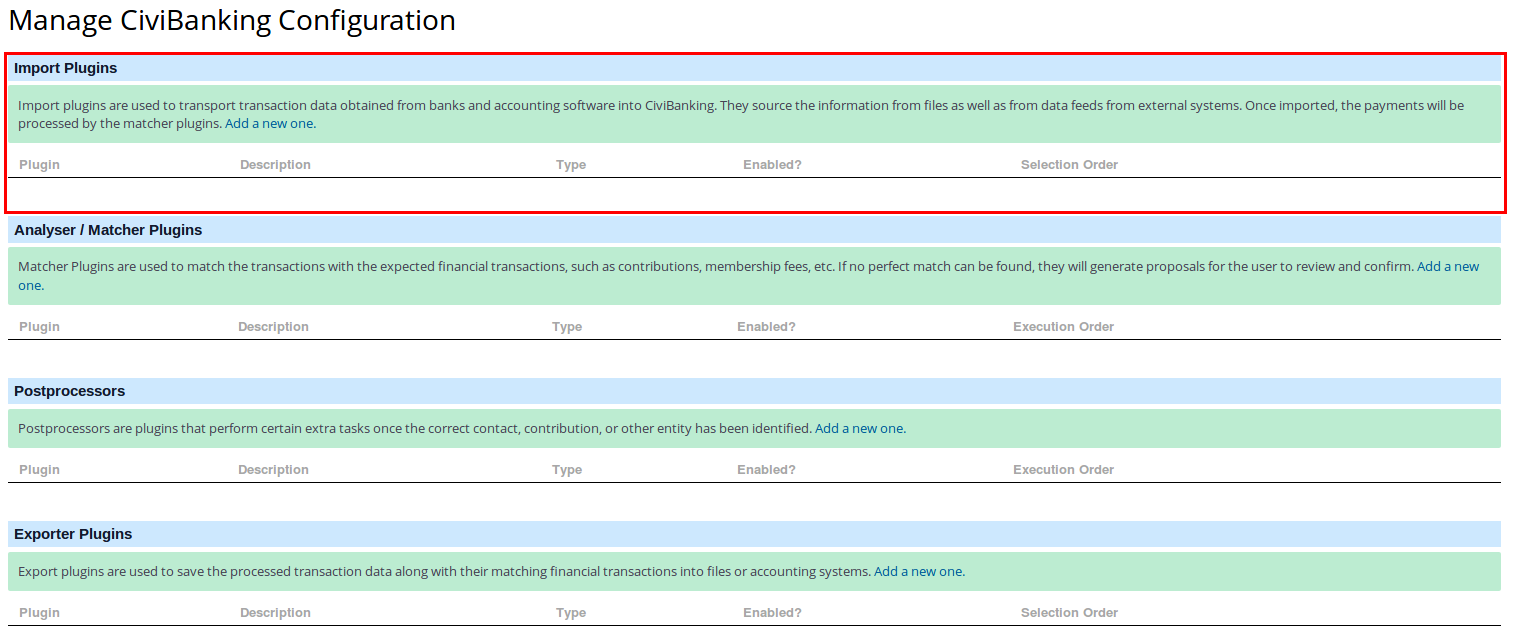
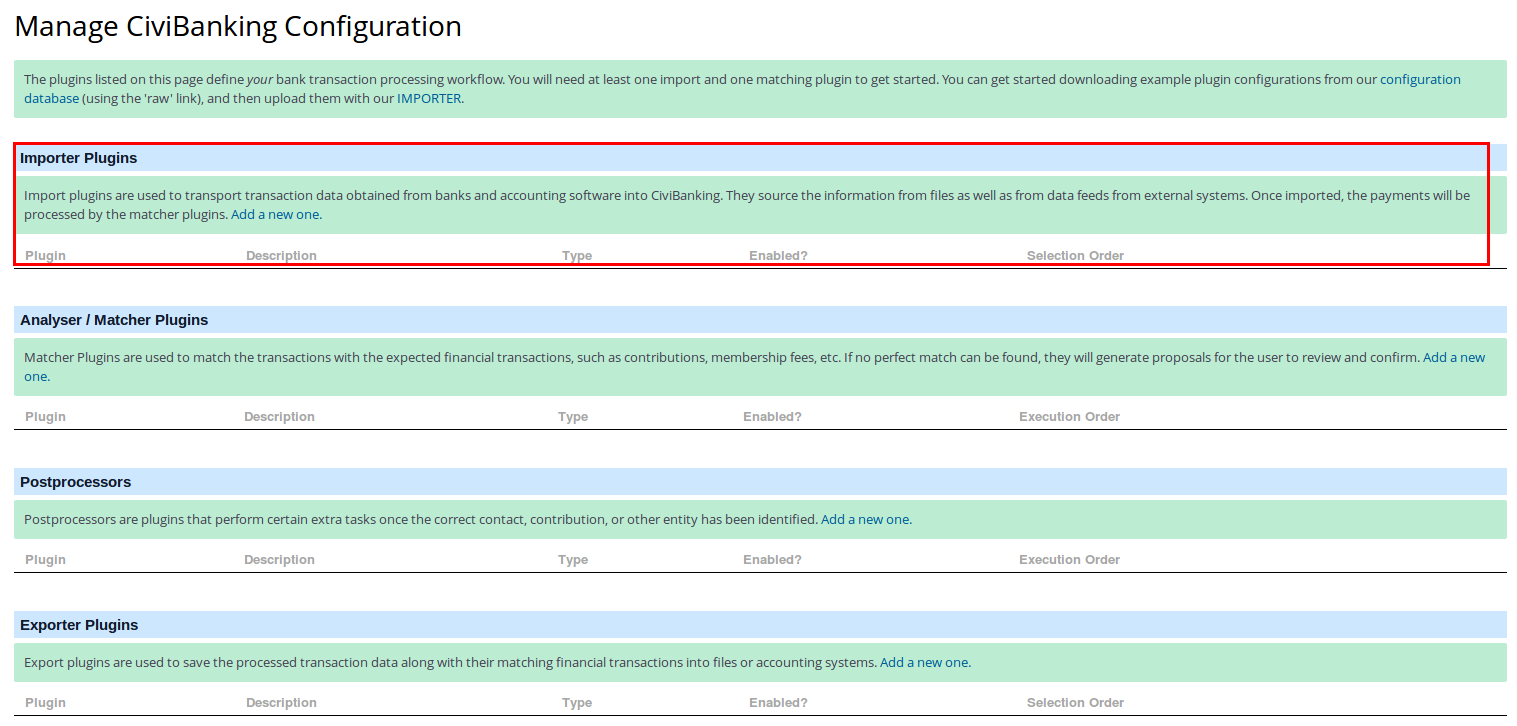
work in progress documentation

diff --git a/docs/config-example.md b/docs/config-example.md
@@ -1,12 +1,18 @@
 !!! note
-    This documentation section has been created with CiviCRM 5.2.1 in Drupal 7 with CiviBanking 0.6
+    This documentation section has been created with CiviCRM 5.6.0 in Drupal 7 with CiviBanking 0.7
     
 ##Introduction
 
-CiviBanking is a great extension that can read and interpret files with payments you can get from your bank. 
-It can find the related contributions in CiviCRM and mark them as completed. And for quite a few scenario's it can do this automatically too!
+CiviBanking is a great extension that can read and interpret files with payments you can get from your bank or payment provider. So this could be a file from your bank, but also a downloaded file from Mollie, PayPal or Visa.
+ 
+The extension will import the data, transform it to generic transactions that it can process and then match those with the related contributions in CiviCRM and mark them as completed (or suggest you create new contributions or even contacts). And for quite a few scenario's it can do this automatically too!
 
-Configuring CiviBanking is a bit of a job. As it is pretty powerfull and can handle different types of files, it also needs configuration for each file. And as you are importing files from specific formats it also requires quite some technical knowledge to understand all the steps required. It might well be that you have read this chapter and think this is a far too daunting step for you to take. If that is the case, please contact a CiviCRM expert to help you.
+Configuring CiviBanking is a bit of a job. As it is pretty powerful and can handle different types of files, it also needs configuration for each file. And as you are importing files from specific formats it also requires quite some technical knowledge to understand all the steps required.
+
+!!! note "What if I want to know more?"
+    Please note that this chapter does not mention all possibilities or options. CiviBanking is very powerful and flexible, trying to write a guide that mentions all possibilities would be a massive task. The amibition of this section is to give you an example configuration and explain the concepts. If you have specific needs or additional questions please contact an expert to discuss what is possible?
+    
+    It might well be that you have read this chapter and think this is a far too daunting step for you to take. If that is the case, please contact a CiviCRM expert to help you. You can find CiviCRM experts on the Find an Expert page on the [CiviCRM website](https://civicrm.org/partners-contributors).
 
 !!! note "Contribute?"
     If you would like to contribute to the documentation of CiviBanking you can certainly do so! Every  now and then sprints to update the documentation are organised. In most cases this will be announced on the CiviCRM channels. If you want to make sure you are invited for the next one please drop [betty.dolfing@civicoop.org](mailto:betty.dolfing@civicoop.org) or [erik.hommel@civicoop.org](mailto:erik.hommel@civicoop.org) a mail.
@@ -27,7 +33,7 @@ The **second step (analyzing)** reads the transaction from the payments file and
 * the payment has nothing to do with CiviCRM
 * etc. etc.
 
-In the **third step (matching)** you pick one of the suggestions from the analyzing step and process that into CiviCRM.
+In the **third step (matching)** you pick one of the suggestions from the analyzing step and process that into CiviCRM (or configure the matcher to do so automatically).
 
 We will look into each step in some more detail in the following sections from a configuration point of view.
 
@@ -44,7 +50,7 @@ If you select this option you will see the CiviBanking Settings:
 
 ![Screenshot](/img/civibanking_settings.png)
 
-For this documentation chapter we assume you have accepted all the defaults in the CiviBanking Settings!
+For this documentation section we assume you have accepted all the defaults in the CiviBanking Settings! There will be more detail about the CiviBanking settings in the [How to Guide](how-to.md).
 
 ##Importing
 As explained, **importing** is about translating the data provided by the payment processor (bank files, csv files etc.) into the CiviBanking speak.
@@ -68,11 +74,14 @@ In this section we will discuss how to configure CiviBanking for two types of fi
     If you get a CAMT053 file from your bank and you find it that you can not process (you get an error _File rejected by importer!_) the best option is to contact an expert that can help you in adapting the importer for the specific format of your bank!
     
 ### CAMT53 file
-Each importer is a so called _plugin_ and can be installed from **Banking>Configuration Manager**. The first time you access the Configuration Manager you will probably get a form like this:
+Each importer is a so called _plugin_ and can be installed or imported from **Banking>Configuration Manager**. The first time you access the Configuration Manager you will probably get a form like this:
 
 ![Screenshot](/img/config_manager_empty.png)
 
 In this case we are interested in adding a _plugin_ to import, so the top part. As you can see there are no plugins configured just yet, so I will click the **Add a new one** link in the **Import plugins** section of the form.
+
+Alternatively, if I have a configuration (including importers, matchers and so on) for CiviBanking from another CiviCRM installation, I can use the **IMPORTER** link to select an exported configuration file and import that into my new CiviBanking installation.
+For this section we will assume you are going to create a new one, so I have clicked on the **add a new one** link.
 
 In the next form I enter a _name_ for the plugin, I select the **Import Plugin** as the _class_. As CAMT53 is a type of XML file I select **Configurable XML importer** as _Implementation_. And I enter a few sentences describing what the imported does at _description_. The result will be in the top half of the Configuration Manager Add Plugin screen and will look something like this screenshot:
 
@@ -84,6 +93,8 @@ This kind of information is entered in [JSON](https://www.json.org/). For the CA
 
 You can copy the JSON data below and paste it in the bottom half of the Configuration Manager Add Plugin form (the part marked with **Configuration**). 
 Once all the data is entered press the **Save** button to save your plugin configuration. 
+
+If you want to know more about the configuration of an importer and how you can create your specific importer please check [How to create an importer](create-importer.md).
 
 ``` json
 {

diff --git a/docs/create-importer.md b/docs/create-importer.md
@@ -1,0 +1,1 @@
+This is still an empty section

diff --git a/docs/create-matcher.md b/docs/create-matcher.md
@@ -1,0 +1,1 @@
+This is still an empty section

diff --git a/docs/create-postprocessor.md b/docs/create-postprocessor.md
@@ -1,0 +1,1 @@
+This is still an empty section
